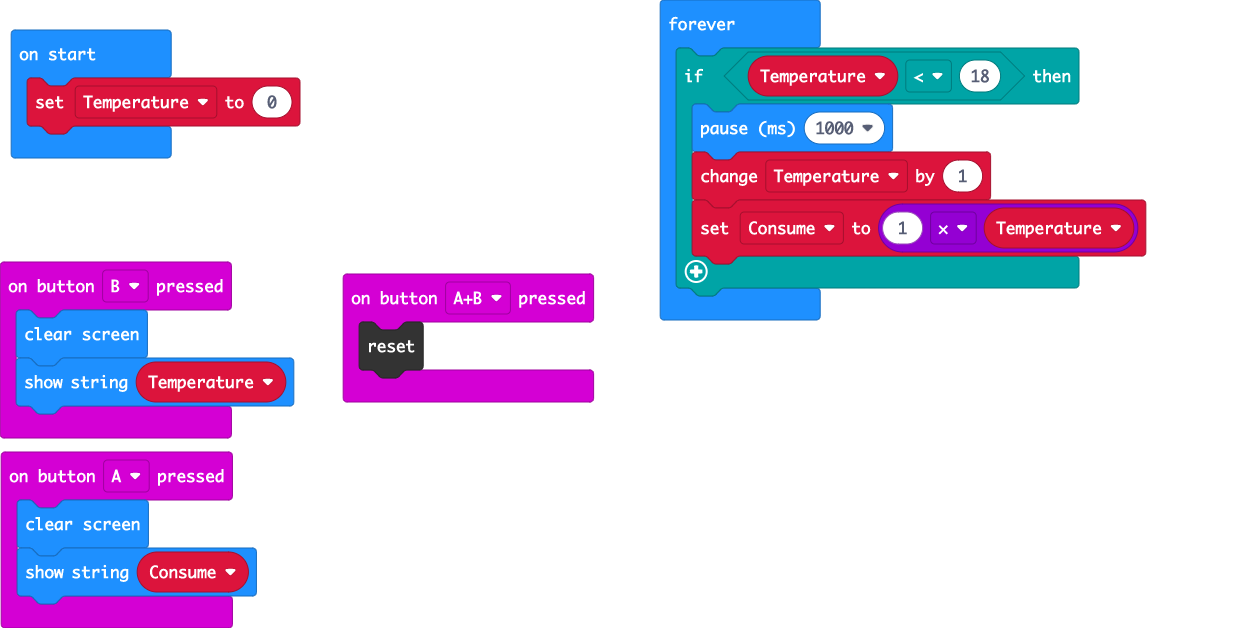
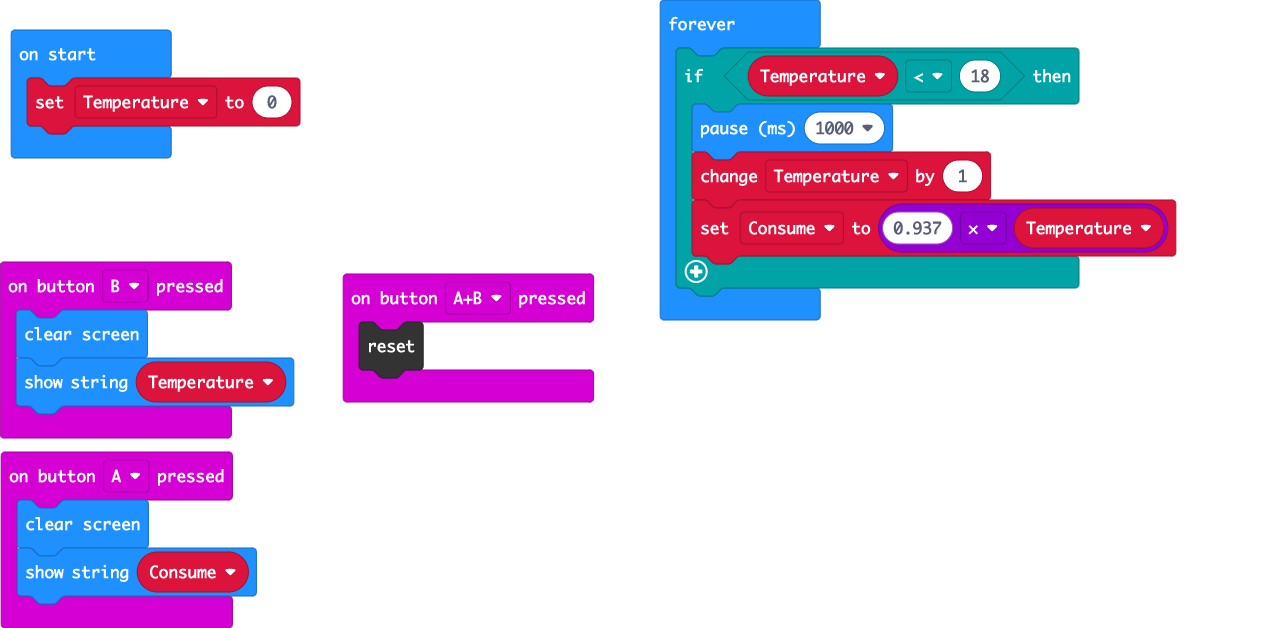
works well

diff --git a/main.ts b/main.ts
@@ -16,6 +16,6 @@ basic.forever(function () {
     if (Temperature < 18) {
         basic.pause(1000)
         Temperature += 1
-        Consume = 1 * Temperature
+        Consume = 0.937 * Temperature
     }
 })
